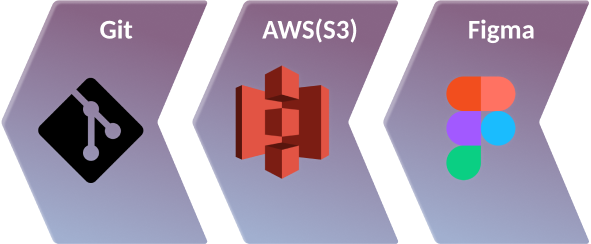
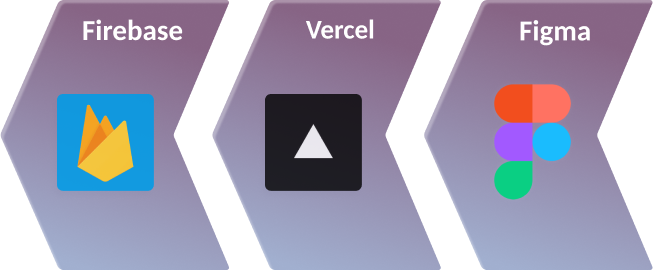
chore: skills 수정

diff --git a/src/components/Skills/Skills.tsx b/src/components/Skills/Skills.tsx
@@ -2,7 +2,9 @@ import styled, { keyframes } from 'styled-components';
 import starBar from '../../assets/png-file/star-bar.png';
 import languages from '../../assets/png-file/languages.png';
 import frameLibraries from '../../assets/png-file/frame-libraries.png';
+import libraries from '../../assets/png-file/libraries.png';
 import others from '../../assets/png-file/others.png';
+import skills from '../../assets/png-file/skills.png';
 import { useState, useRef, useEffect } from 'react';
 
 const languagesFrameIn = keyframes`
@@ -71,7 +73,7 @@ const SkillsBlock = styled.div`
 
 const RealSkillsBlock = styled.div`
   width: 974px;
-  height: 782px;
+  height: 890px;
   padding: 84px 0 84px 0;
   border-bottom: 2px solid #edecee;
 
@@ -298,6 +300,90 @@ const Others = styled.div`
   }
 `;
 
+const Libraries = styled.div`
+  width: 427px;
+  height: 221px;
+
+  transform: translate(545px, -77px);
+
+  &.frame-in {
+    opacity: 0;
+    animation: ${othersFrameIn} 1.2s forwards;
+    animation-delay: 0.1s;
+  }
+
+  .lilac-line {
+    width: 64px;
+    height: 2px;
+    background-color: #f6f1f8;
+    margin: 5px 0 13px auto;
+  }
+
+  .frame {
+    text-align: end;
+  }
+
+  .react-redux-styled {
+    width: 426.09px;
+    height: 176px;
+    background: no-repeat url(${libraries});
+    background-size: 426.09px 176px;
+  }
+
+  .react-redux-styled {
+    display: flex;
+  }
+
+  @media all and (min-width: 768px) and (max-width: 1023px) {
+    transform: translate(272px, -80px);
+    margin-bottom: 35px;
+    width: 329px;
+
+    &.frame-in {
+      opacity: 0;
+      animation: ${libraries} 1.2s forwards;
+      animation-delay: 0.1s;
+    }
+
+    .lilac-line {
+      width: 52px;
+    }
+
+    .react-redux-styled {
+      width: 329.64px;
+      height: 136px;
+      background: no-repeat url(${libraries});
+      background-size: cover;
+      display: flex;
+    }
+  }
+
+  @media all and (max-width: 767px) {
+    transform: translate(0, -80px);
+    width: 325px;
+    height: 221px;
+
+    &.frame-in {
+      opacity: 0;
+      animation: ${libraries} 1.2s forwards;
+      animation-delay: 0.1s;
+    }
+
+    .lilac-line {
+      width: 46px;
+    }
+
+    .react-redux-styled {
+      transform: translate(118px, 0);
+      width: 206px;
+      height: 85px;
+      background: no-repeat url(${libraries});
+      background-size: cover;
+      display: flex;
+    }
+  }
+`;
+
 const FrameAndLibraries = styled.div`
   width: 581.5px;
   height: 225px;
@@ -357,6 +443,15 @@ const FrameAndLibraries = styled.div`
   }
 `;
 
+const Skill = styled.div`
+  width: 100%;
+  display: flex;
+  justify-content: center;
+  .image {
+    width: 100%;
+  }
+`
+
 const Skills = () => {
   const [skillsView, setSkillsView] = useState(false);
   const skillsRef = useRef<HTMLDivElement>(null);
@@ -393,8 +488,9 @@ const Skills = () => {
           <img className="star-bar" src={starBar} alt="star" />
         </div>
 
-        <div ref={skillsRef}>
-          <Languages className={skillsView ? 'frame-in' : ''}>
+        <Skill ref={skillsRef}>
+          <img className='image' src={skills} alt="skills" />
+          {/* <Languages className={skillsView ? 'frame-in' : ''}>
             <p className="skills-bold">Programming Languages</p>
             <div className="lilac-line"></div>
             <div className="js-ts-html-css"></div>
@@ -407,11 +503,14 @@ const Skills = () => {
           </Others>
 
           <FrameAndLibraries className={skillsView ? 'frame-in' : ''}>
-            <p className="skills-bold">Frameworks & Libraries</p>
+            <p className="skills-bold">Libraries</p>
             <div className="lilac-line"></div>
             <div className="git-s3-postman-figma"></div>
           </FrameAndLibraries>
-        </div>
+          <Libraries className={skillsView ? 'frame-in' : ''}>
+            <div className="react-redux-styled"></div>
+          </Libraries> */}
+        </Skill>
       </RealSkillsBlock>
     </SkillsBlock>
   );

diff --git a/src/components/Projects/data.ts b/src/components/Projects/data.ts
@@ -89,8 +89,8 @@ const data: IProjectData[] = [
       이 스토리북을 npm에 배포하여 편리하게 공유하고 활용할 수 있도록 만들었습니다.
       github actions를 활용해서 push가 될때마다 npm에 자동 배포가 될 수 있도록 했습니다.
       
-      처음 회원가입 시 관심있는 뉴스 분야를 선택하면 뉴스레터를 추천해 드리고
-      브리피 전용 메일을 만들어, 뉴스레터 구독 시 브리피 전용 메일에 뉴스를 보내드립니다.
+      관심있는 뉴스 분야를 선택하면 뉴스레터를 추천해 드리고,
+      뉴스레터 구독 시 브리피 전용 메일에 뉴스를 보내드립니다.
       
       tailwind css를 사용하여 반응형 디자인을 적용했고,
       PWA로 PC나 모바일의 홈 화면에 briefy를 설치해서 사용할 수 있도록 했습니다.

diff --git a/src/components/Head/HeadMaterial/RightButton.tsx b/src/components/Head/HeadMaterial/RightButton.tsx
@@ -37,7 +37,7 @@ interface IRightButtonProps {
 const RightButton = ({ text }: IRightButtonProps) => {
   const mainScrollTop = window.innerHeight;
   const aboutmeTop = 440;
-  const skillTop = 782;
+  const skillTop = 890;
   const archivingTop = 570;
 
   const handleBtnClick = () => {
